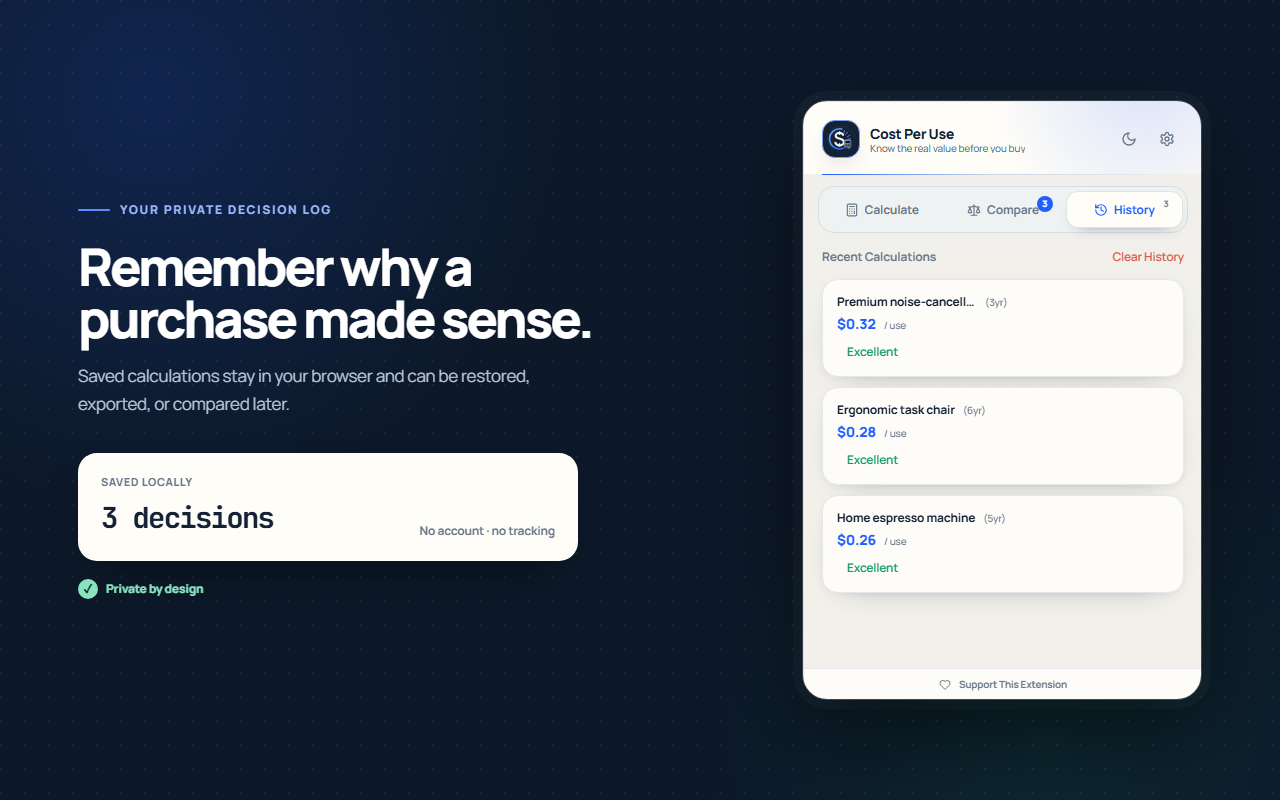
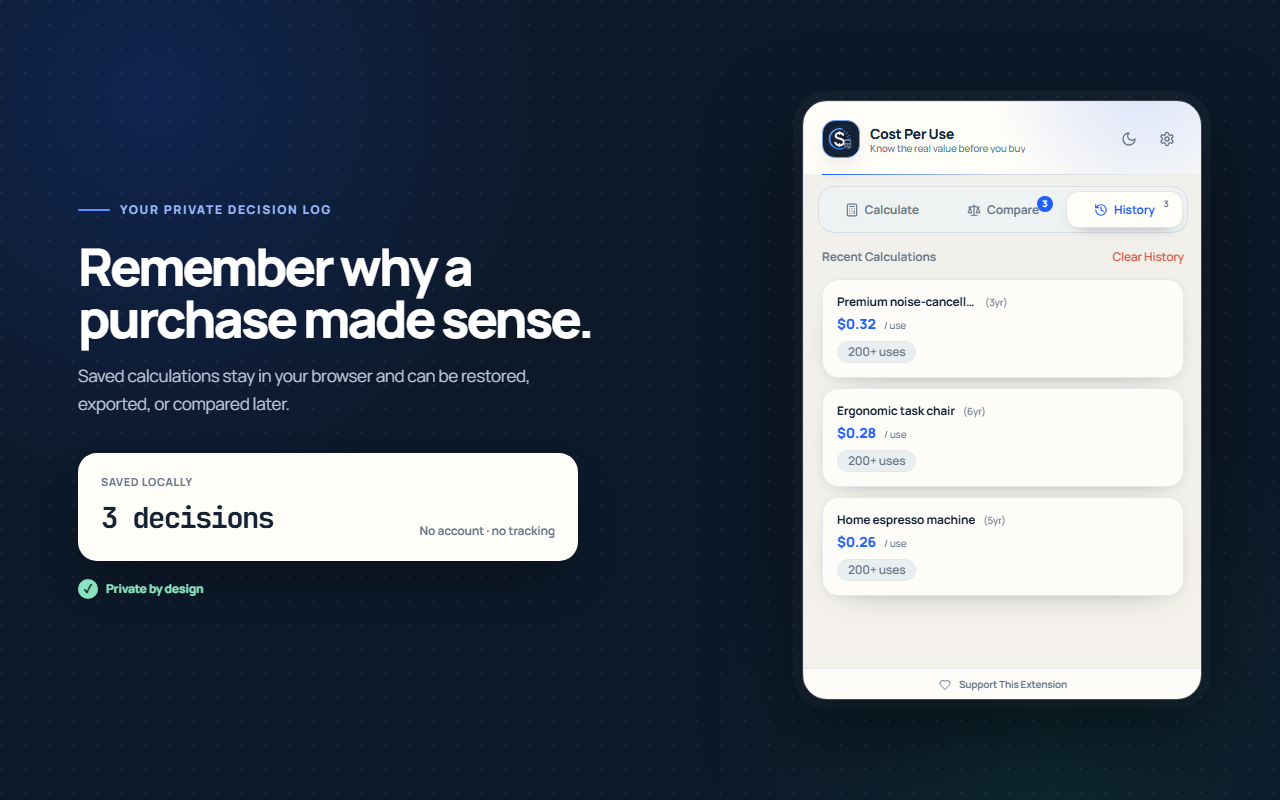
Document usage estimates and refresh store screenshots

Changed region(s): [[0.6562, 0.4062, 0.9062, 0.75]]

diff --git a/README.md b/README.md
@@ -21,7 +21,7 @@
 
 1. **Cost-Per-Use Calculation** — Input the product price, ownership duration, and weekly usage to get the estimated cost per use.
 2. **Advanced Adjustment (Net Cost)** — Factor in potential resale value, recurring maintenance costs, and installment plans.
-3. **Smart Value Rating** — Visual badges: *Excellent*, *Good*, *Think Twice*, or *Expensive*.
+3. **Estimated Usage** — Neutral usage bands show expected total uses, without judging affordability.
 4. **Product Comparison** — Contrast up to 3 products side-by-side.
 5. **Auto-fill from Shopping Sites** — Automatically detects product name & price from Amazon, Trendyol, Hepsiburada, and eBay. Toggleable in settings.
 6. **Multi-Currency** — USD, TRY, EUR, GBP, and custom currencies.

diff --git a/CHANGELOG.md b/CHANGELOG.md
@@ -2,6 +2,13 @@
 
 All notable user-facing changes to Cost Per Use are recorded here.
 
+## [Unreleased]
+
+### Fixed
+
+- Replaced price-independent value judgments with neutral estimated-use bands in results and both history views, including saved and imported calculations.
+- Localized usage labels and explanations in all ten languages and removed success/warning colors from usage badges.
+
 ## [1.0.2] - 2026-07-18
 
 ### Added
